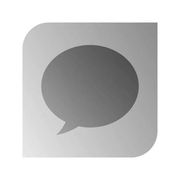
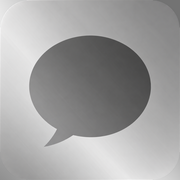
Add files via upload

diff --git a/sw.js b/sw.js
@@ -1,10 +1,10 @@
-const CACHE_NAME='transport-messages-v13-gray-activation';
-const APP_FILES=['./','./index.html','./styles.css','./app.js','./manifest.webmanifest','./assets/avatar.svg','./assets/icon-180.png','./assets/icon-192.png','./assets/icon-512.png'];
+const CACHE_NAME='transport-messages-v14-silver-icon';
+const APP_FILES=['./','./index.html','./styles.css','./app.js','./manifest.webmanifest','./assets/avatar.svg','./assets/icon-180.png','./assets/icon-192.png','./assets/icon-512.png','./assets/icon-round-192.png','./assets/icon-maskable-512-v2.png'];
 self.addEventListener('install',event=>{event.waitUntil(caches.open(CACHE_NAME).then(cache=>cache.addAll(APP_FILES)).then(()=>self.skipWaiting()));});
 self.addEventListener('activate',event=>{event.waitUntil(caches.keys().then(keys=>Promise.all(keys.filter(key=>key.startsWith('transport-messages-')&&key!==CACHE_NAME).map(key=>caches.delete(key)))).then(()=>self.clients.claim()));});
 self.addEventListener('fetch',event=>{
   if(event.request.method!=='GET'||new URL(event.request.url).origin!==self.location.origin)return;
   const url=new URL(event.request.url);const known=APP_FILES.some(path=>new URL(path,self.registration.scope).pathname===url.pathname);
   if(!known&&event.request.mode!=='navigate')return;
-  event.respondWith(fetch(event.request).then(response=>{if(response.ok){const copy=response.clone();event.waitUntil(caches.open(CACHE_NAME).then(cache=>cache.put(event.request,copy)));}return response;}).catch(async()=>{const cached=await caches.match(event.request);if(cached)return cached;if(event.request.mode==='navigate')return caches.match('./index.html');return Response.error();}));
+  event.respondWith(fetch(event.request).then(response=>{if(response.ok){const copy=response.clone();event.waitUntil(caches.open(CACHE_NAME).then(cache=>cache.put(event.request,copy));}return response;}).catch(async()=>{const cached=await caches.match(event.request);if(cached)return cached;if(event.request.mode==='navigate')return caches.match('./index.html');return Response.error();}));
 });
